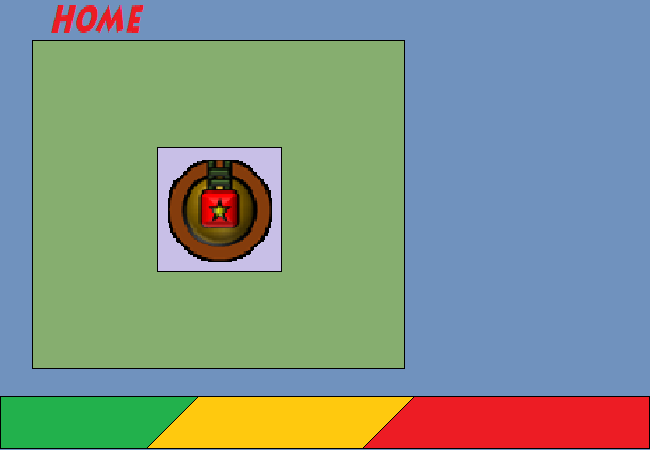
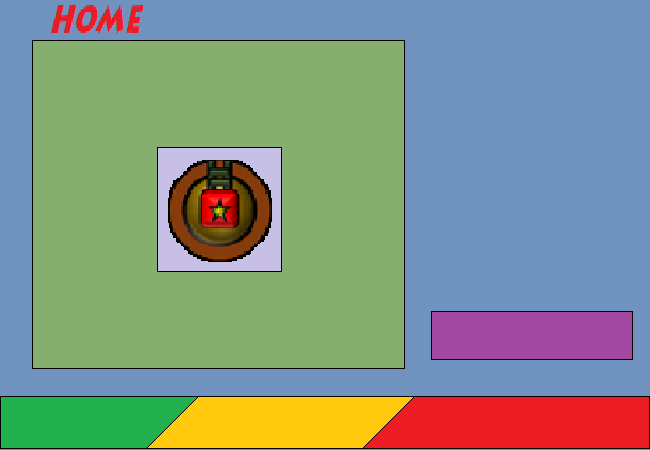
them pause menu

Changed region(s): [[0.6462, 0.6844, 0.9846, 0.8089]]

diff --git a/TankGame.cpp b/TankGame.cpp
@@ -23,7 +23,7 @@ BasicObj pauseBackground;
 BasicObj warning;
 
 BasicObj textMenu[4];
-BasicObj textMainHome[3];
+BasicObj textMainHome[4];
 BasicObj textHome[4];
 BasicObj textGunHome[4];
 BasicObj textAbout;
@@ -117,10 +117,12 @@ void loadHomeMenu() {
 	textMainHome[0].loadText(bigFont, "Play", _color, renderer);
 	textMainHome[1].loadText(bigFont, "Shop", _color, renderer);
 	textMainHome[2].loadText(bigFont, "Back", _color, renderer);
+	textMainHome[3].loadText(bigFont, "Save Game", _color, renderer);
 
 	textMainHome[0].setXY(490, cameraHeight - textMainHome[0].getH());
 	textMainHome[1].setXY(220, cameraHeight - textMainHome[1].getH());
 	textMainHome[2].setXY(20, cameraHeight - textMainHome[2].getH());
+	textMainHome[3].setXY(460, 320);
 
 	frameHome[0].loadImg("./image/frame_money.png", renderer);//tien
 	for (int i = 1; i <= 3; i++)
@@ -153,11 +155,11 @@ void loadHomeMenu() {
 void loadPauseMenu() {
 	// load menu Pause
 	SDL_Color _color = { 255, 255, 255 };
-	aboutBackground.loadImg("./image/background_pause.png", renderer);
+	pauseBackground.loadImg("./image/background_pause.png", renderer);
 	textPause[0].loadText(bigFont, "RESUME", _color, renderer);
-	textPause[0].setXY(300, 300);
+	textPause[0].setXY(242, 237);
 	textPause[1].loadText(bigFont, "BACK TO HOME", _color, renderer);
-	textPause[1].setXY(250, 400);
+	textPause[1].setXY(202, 320);
 }
 
 void loadGame() {
@@ -202,11 +204,10 @@ void loadGame() {
 int handleMenuPause() {
 	bool out = false;
 	std::vector<bool> flagChuck(2, false);
+	SDL_ShowCursor(SDL_ENABLE);
 	while (!out) {
 		SDL_Event e;
 		while (SDL_PollEvent(&e) != 0) {
-			if (Mix_PlayingMusic() == 0)
-				Mix_PlayMusic(musicBackgroundGame, -1);
 			if (e.type == SDL_QUIT)
 				out = true;
 			if (e.type == SDL_MOUSEMOTION || e.type == SDL_MOUSEBUTTONDOWN || e.type == SDL_MOUSEBUTTONUP) {
@@ -221,6 +222,7 @@ int handleMenuPause() {
 						textPause[i].setColor(0, 0, 128);
 						if (e.type == SDL_MOUSEBUTTONDOWN) {
 							if (i == 0) { // chơi tiếp
+								SDL_ShowCursor(SDL_DISABLE);
 								return 0;
 							}
 							else if (i == 1) { // về home
@@ -342,10 +344,14 @@ int handleMenuGame() {
 
 void game();
 
+void saveGame() {
+	;
+}
+
 void handleMenuHome() {
 	bool out = false;
 	std::vector<bool> flagChuck(11, false);
-	std::vector<bool> flagChuckMainText(3, false);
+	std::vector<bool> flagChuckMainText(4, false);
 	bool isRenderFrame89 = false;
 	bool isRenderFrame10 = false;
 	bool isRenderFrameGun = false;
@@ -601,7 +607,7 @@ void handleMenuHome() {
 					}
 				}
 
-				for (int k = 0; k < 3; k++) {
+				for (int k = 0; k < 4; k++) {
 					if (check::checkInsideRect(_x, _y, textMainHome[k].getBox())) {
 						textMainHome[k].setColor(0, 0, 128);
 						if (flagChuckMainText[k] == false) {
@@ -651,13 +657,15 @@ void handleMenuHome() {
 								Mix_HaltMusic();
 								return;
 							}
+							else if (k == 3) { // save game
+								saveGame();
+							}
 						}
 						break;
 					}
-					else
-					{
+					else {
 						textMainHome[k].setColor(255, 255, 255);
-						if (k >= 2) flagChuckMainText.assign(3, false);
+						if (k >= 3) flagChuckMainText.assign(4, false);
 					}
 				}
 			}
@@ -790,6 +798,8 @@ void game() {
 	bool isAllowTankMainMove = true; // cho phép tank main di chuyển?
 	bool isAllowCreateTankBossList = false; // cho phép tạo bost list?
 	bool isYouWin = false;
+
+	loadPauseMenu();
 	if (load()) {
 		SDL_Rect camera = { 0, 0, cameraWidth, cameraHeight }; // khai báo camera
 		SDL_ShowCursor(SDL_DISABLE); // ẩn con trỏ chuột
@@ -960,6 +970,7 @@ void game() {
 				tank.renderTam(renderer);
 				if (tank.getIsDestroy()) { // còn hiện game over nữa
 					Mix_HaltMusic();
+					SDL_ShowCursor(SDL_ENABLE); // hiện con trỏ chuột
 					return;
 				}
 			}
@@ -972,6 +983,7 @@ void game() {
 	}
 	close();
 	Mix_HaltMusic();
+	SDL_ShowCursor(SDL_ENABLE); // hiện con trỏ chuột
 	return;
 }
 

diff --git a/TankMain.cpp b/TankMain.cpp
@@ -219,11 +219,13 @@ void TankMain::handleEatItem(std::vector<Item*> _itemlist, SDL_Renderer* _render
 				textMinusHealth.loadText(_font, _plus.str(), _color, _renderer);
 			}
 			else if (_itemlist[i]->getType() == Item::fireBulletItem) {
-				std::cout << "fire bullet" << std::endl;
+				// std::cout << "fire bullet" << std::endl;
+				totalFireBullet += PLUS_FIREBULLET_ITEM;
 				isPlusHealth = false;
 			}
 			else if (_itemlist[i]->getType() == Item::moneyItem) {
-				std::cout << "money" << std::endl;
+				// std::cout << "money" << std::endl;
+				money += PLUS_MONEY_ITEM;
 				isPlusHealth = false;
 			}
 			return;
@@ -319,9 +321,15 @@ void TankMain::createBullet(SDL_Renderer* _renderer) {
 			firtingRate = Bullet::nomalRate;
 		}
 		else if (bulletType == Bullet::fireBullet) {
+			if (totalFireBullet <= 0) {
+				return;
+			}
 			firtingRate = Bullet::fireRate;
 		}
 		else if (bulletType == Bullet::rocketBullet) {
+			if (totalRocketBullet <= 0) {
+				return;
+			}
 			firtingRate = Bullet::rocketRate;
 		}
 
